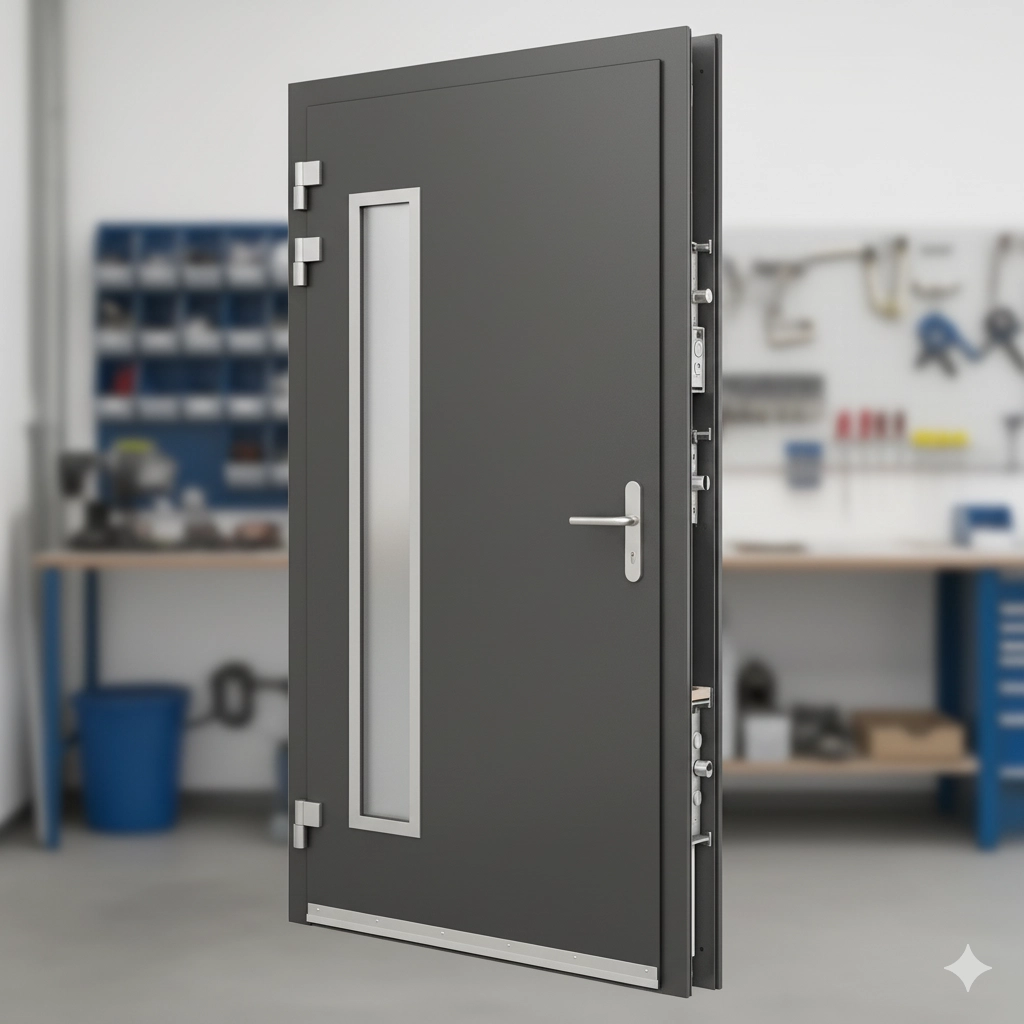
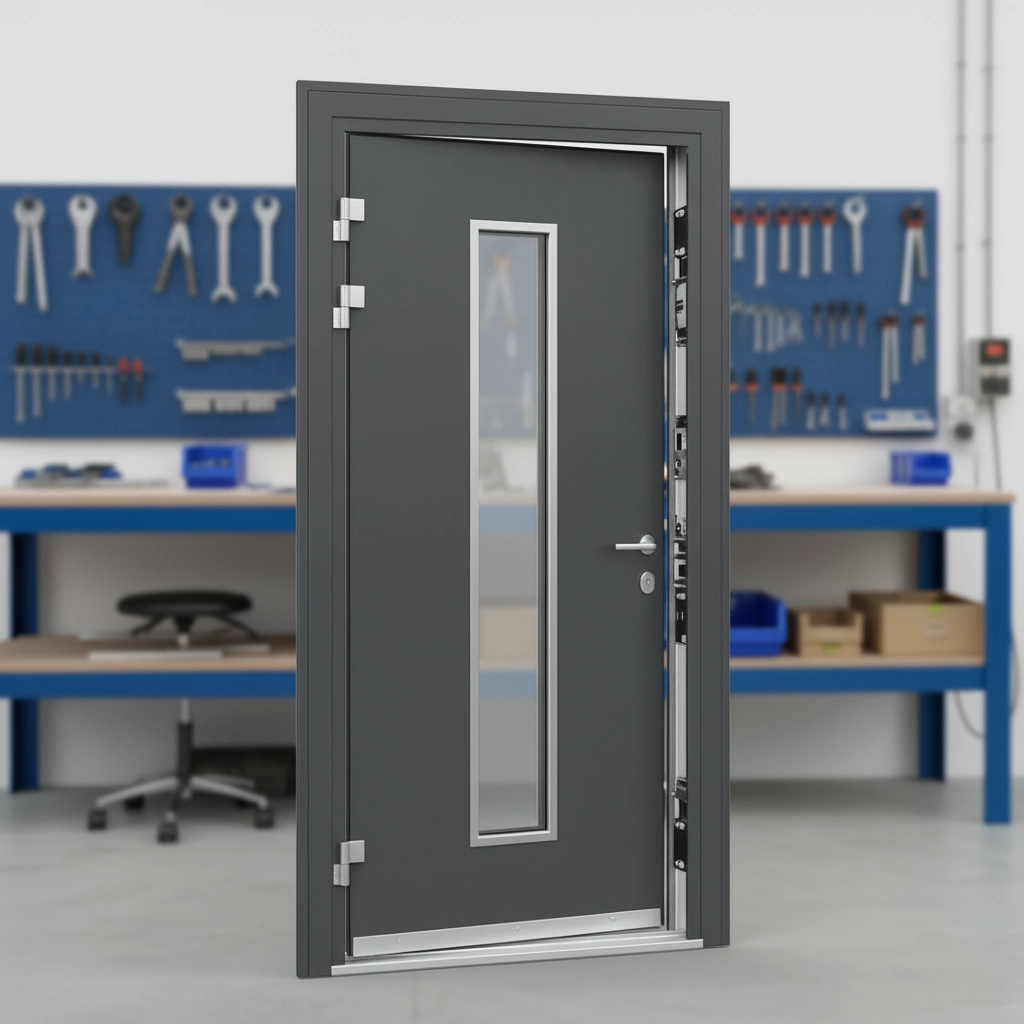
chore: last finetuning Hoening Section and Footer complete

diff --git a/src/app/layout.tsx b/src/app/layout.tsx
@@ -1,4 +1,5 @@
-import type { Metadata } from "next";
+// src/app/layout.tsx
+import type { Metadata, Viewport } from "next";
 import { Roboto, Roboto_Mono } from "next/font/google";
 import "./globals.css";
 import Header from "@/components/Header";
@@ -20,28 +21,57 @@ const robotoMono = Roboto_Mono({
   display: "swap",
 });
 
-export const metadata = {
+export const metadata: Metadata = {
   title: "Hausmeister Neuss - Alexander Ergart",
   description:
     "Hausmeisterservice in Neuss: Reinigung, Reparaturen & Winterdienst.",
 };
 
+export const viewport: Viewport = {
+  themeColor: [
+    { media: "(prefers-color-scheme: dark)", color: "#0a0a0a" },
+    { color: "#ffffff" },
+  ],
+};
+
 export default function RootLayout({
   children,
-}: Readonly<{
-  children: React.ReactNode;
-}>) {
+}: Readonly<{ children: React.ReactNode }>) {
   return (
     <html lang="de" suppressHydrationWarning>
+      {/* Sticky-Footer-Setup: body als Flex-Spalte, volle Viewport-Höhe */}
       <body
-        className={`${roboto.variable} ${robotoMono.variable} font-sans bg-background text-foreground relative`}
+        className={[
+          roboto.variable,
+          robotoMono.variable,
+          "font-sans",
+          "antialiased",
+          "bg-background text-foreground",
+          "min-h-screen min-h-dvh",
+          "flex flex-col",
+          "relative",
+        ].join(" ")}
       >
+        {/* Skip-Link für A11y */}
+        <a
+          href="#main"
+          className="sr-only focus:not-sr-only focus:absolute focus:left-4 focus:top-4 focus:z-[100] rounded bg-brand-blue px-3 py-2 text-white"
+        >
+          Zum Inhalt springen
+        </a>
+
         <Providers>
           <Header />
-          <main className="flex-grow">{children}</main>
+
+          {/* WICHTIG: flex-1 damit der Content die Lücke füllt -> Footer bleibt unten */}
+          <main id="main" role="main" className="flex-1">
+            {children}
+          </main>
+
           <Footer />
         </Providers>
 
+        {/* UI-Utility kann außerhalb von main bleiben */}
         <ScrollToTopButton />
       </body>
     </html>

diff --git a/src/components/Footer.tsx b/src/components/Footer.tsx
@@ -165,10 +165,10 @@ const Footer = () => {
           </div>
           <div className="mt-4 sm:mt-0">
             <Link
-              href="/impressum"
+              href="https://www.smairys-netz-manufaktur.de/"
               className="hover:text-foreground transition-colors"
             >
-              Impressum
+              Web-Design & Entwicklung Erster Klasse: Smairys
             </Link>
           </div>
         </div>

diff --git a/src/app/tueren/page.tsx b/src/app/tueren/page.tsx
@@ -25,7 +25,7 @@ export default function TuerenPage() {
         ]}
         ctaText="Unverbindlich anfragen"
         ctaHref="/kontakt"
-        imageSrc="/bilder_ordner/hoening/tueren/tueren-detail2.png"
+        imageSrc="/bilder_ordner/hoening/tueren/tueren-detail.webp"
       />
 
       {/* Die Feature-Galerien zeigen die Produktvielfalt und -details */}
